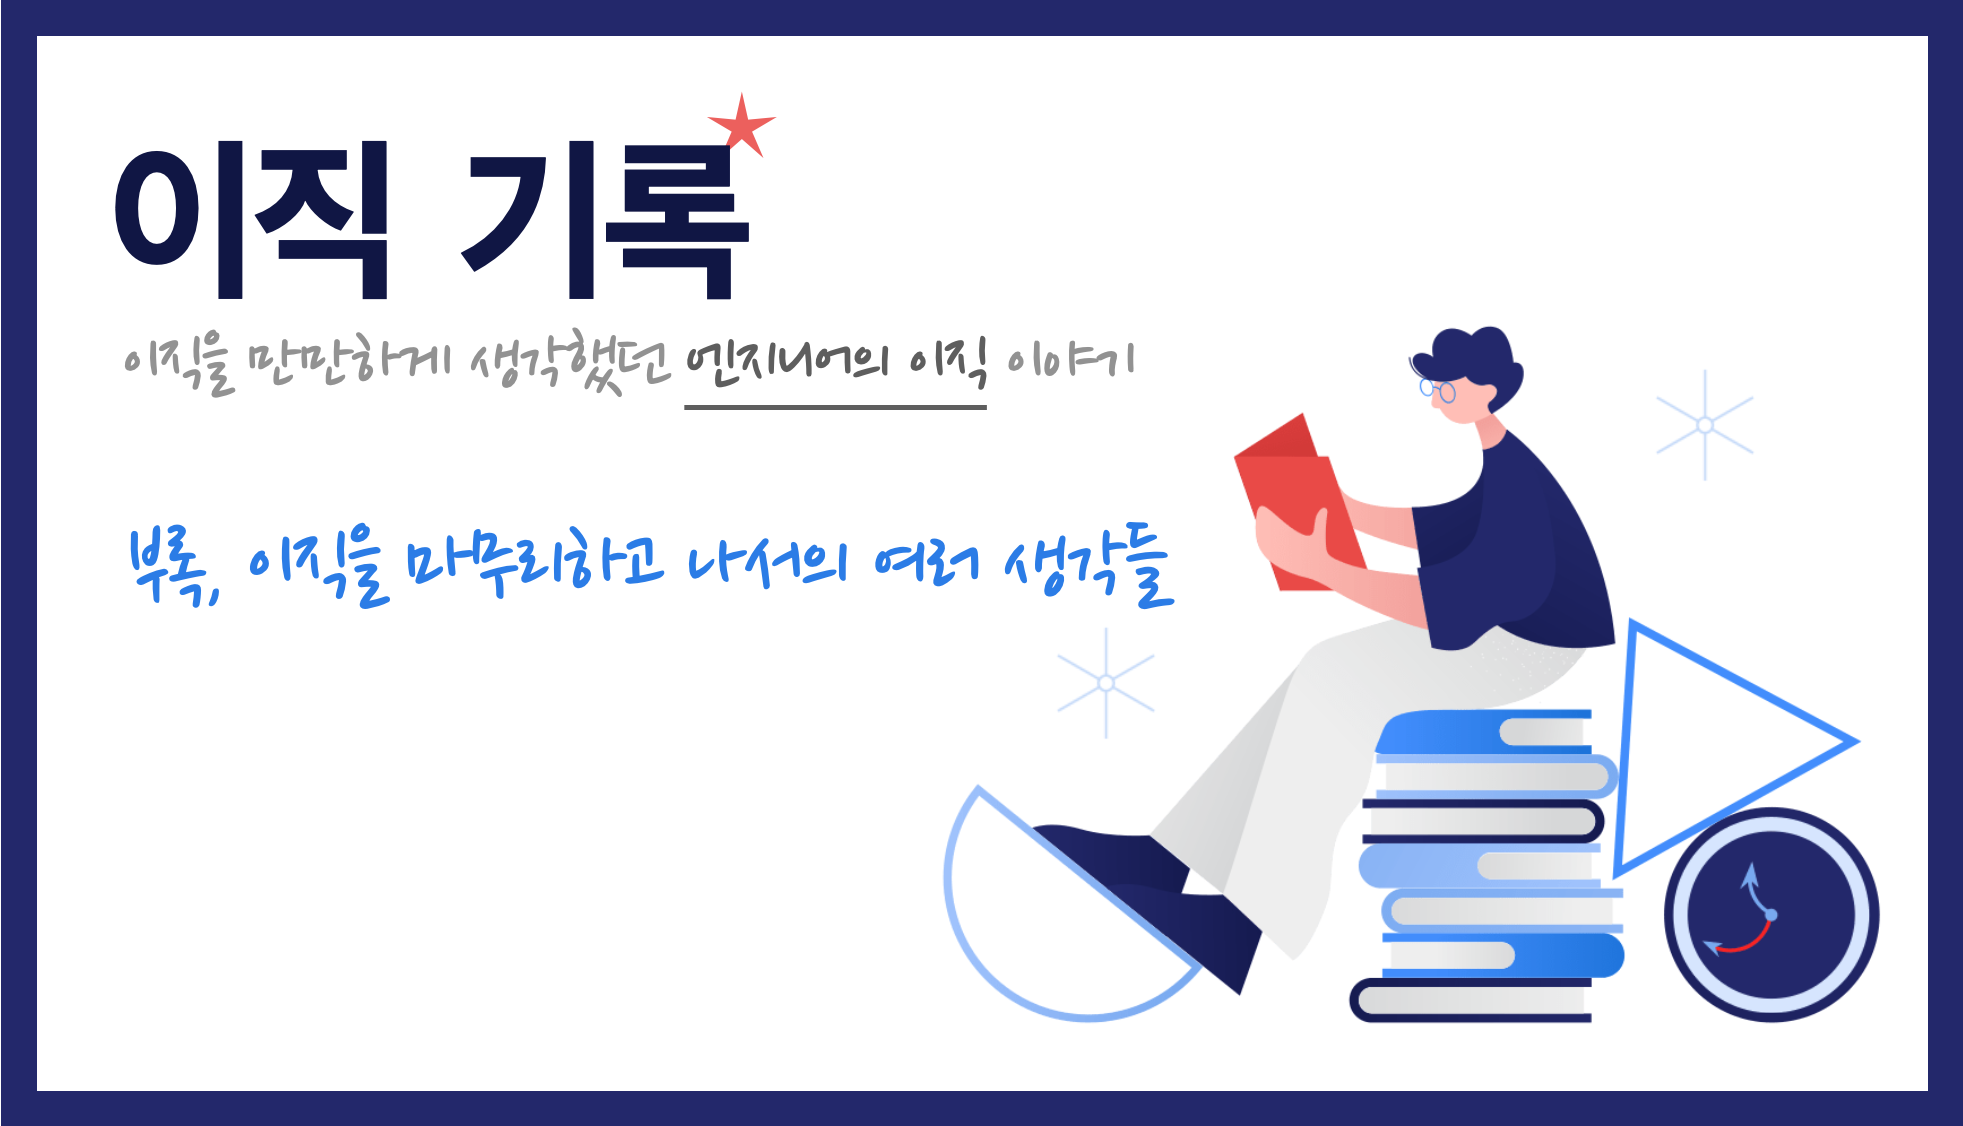
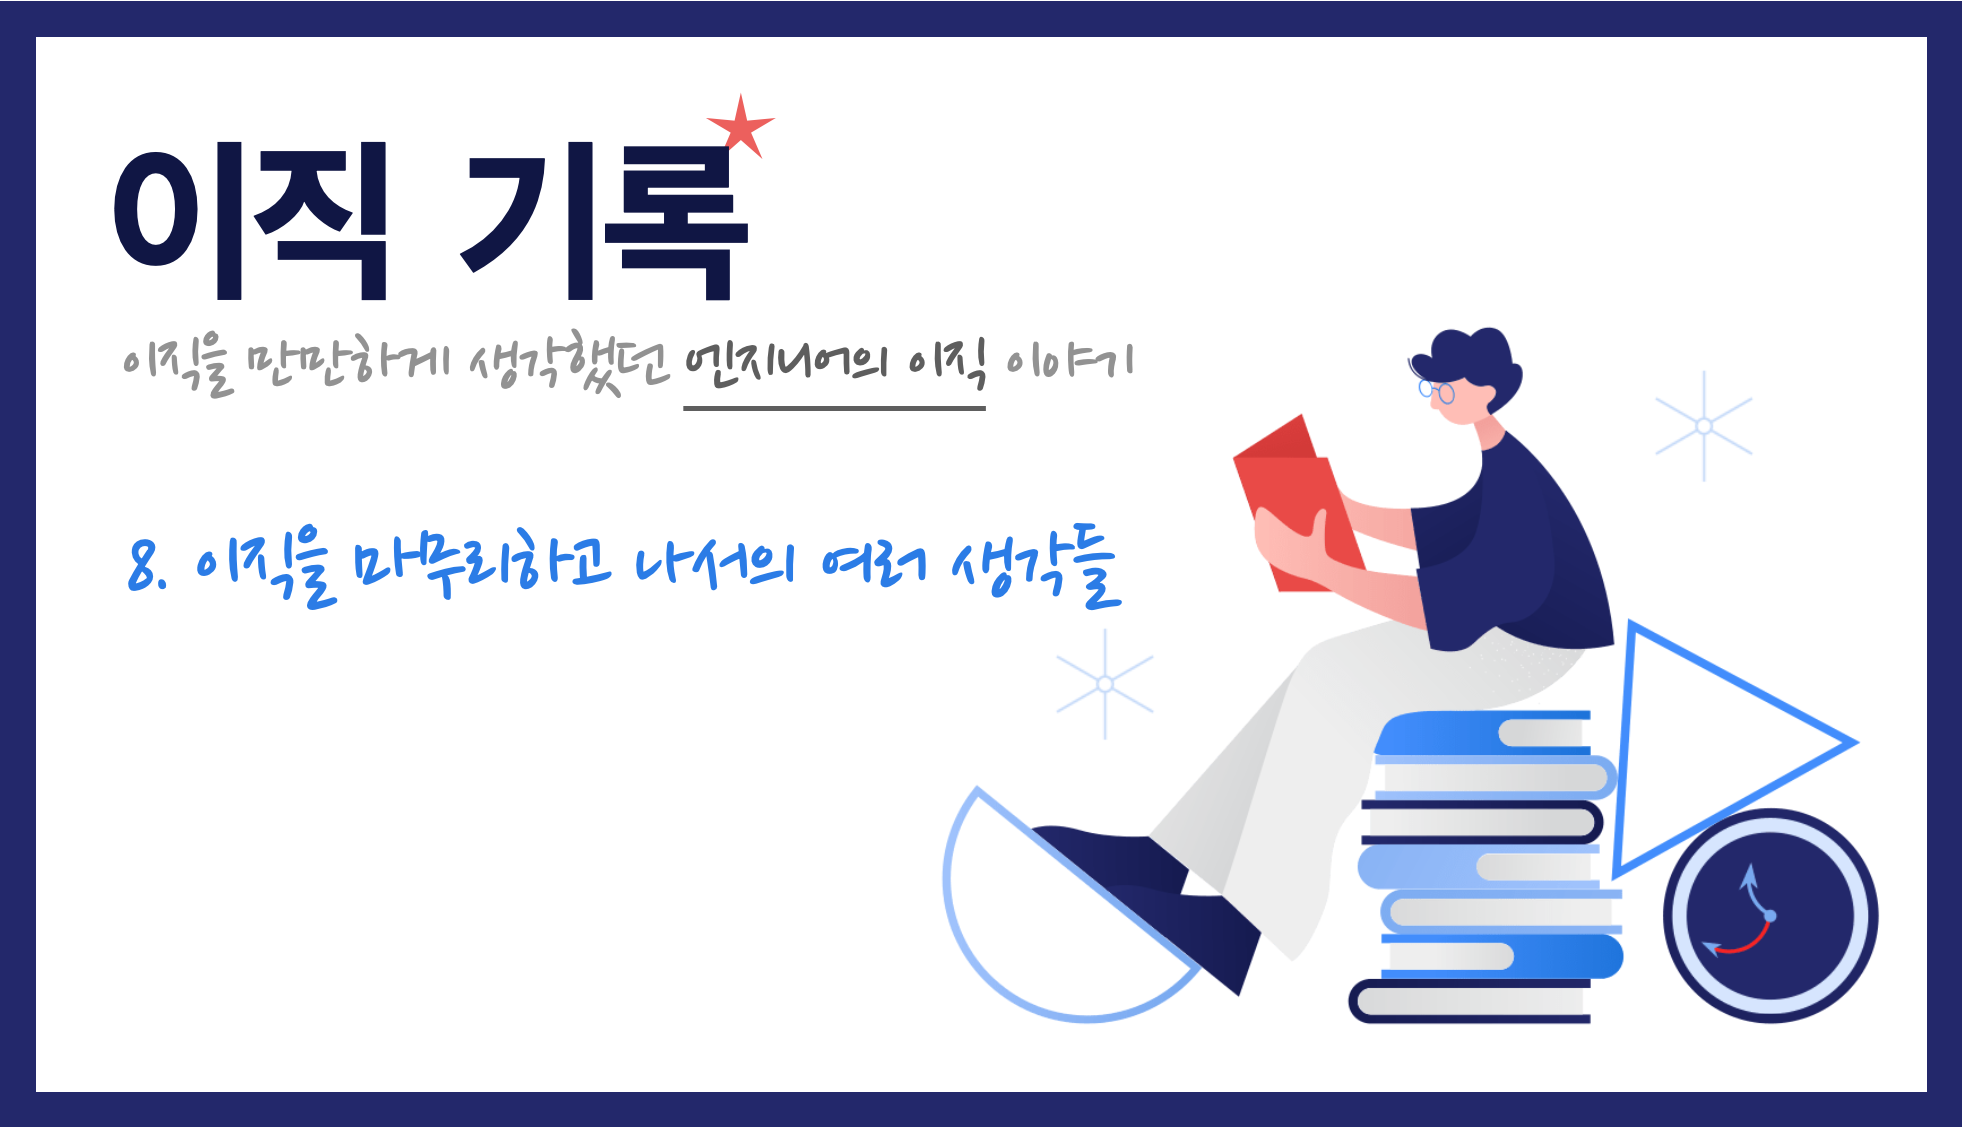
post: Fix title

diff --git a/content/blog/career/2020-turnover-8.md b/content/blog/career/2020-turnover-8.md
@@ -1,5 +1,5 @@
 ---
-title: '부록. 이직을 마무리하고 나서의 여러 생각들'
+title: '이직기록 8. 이직을 마무리하고 나서의 여러 생각들'
 date: 2020-04-23 17:04:13
 category: career
 thumbnail: './images/2020-turnover-8.png'
@@ -12,7 +12,7 @@ draft: false
     <sup>Image by: <a>https://icons8.com</a></sup>
 </div>
 
-이직을 하는 과정에서 여러 생각이 들었습니다. 이직 시리즈 포스팅의 마지막인 이번 포스트에선 이직 프로세스의 반대 순서로 생각들을 정리하려고 합니다.
+이직을 하는 과정에서 여러 생각이 들었습니다. 이직 시리즈 포스팅의 마지막인 이번 포스트에선 이직 프로세스의 반대 순서로 생각들을 정리합니다.
 
 ### Table of Contents
 
